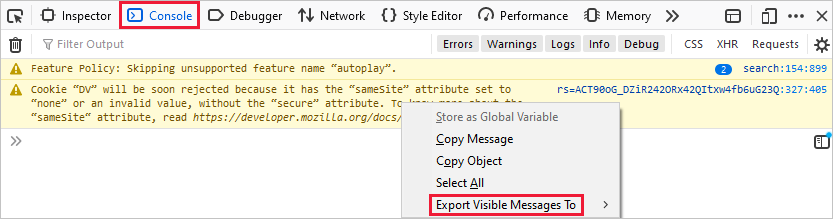
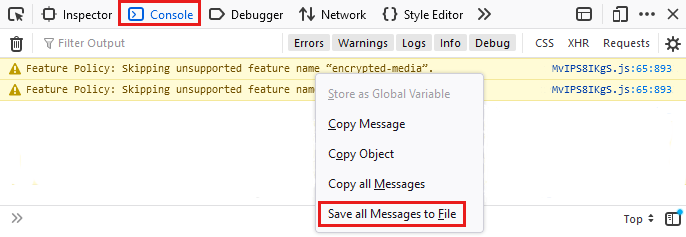
image and alt text updates

diff --git a/articles/azure-portal/capture-browser-trace.md b/articles/azure-portal/capture-browser-trace.md
@@ -38,7 +38,7 @@ Google Chrome and Microsoft Edge are both based on the [Chromium open source pro
 
 1. Select the **Network** tab, then select **Stop recording network log** and **Clear**.
 
-    ![Screenshot of "Stop recording network log" and "Clear"](media/capture-browser-trace/chromium-stop-clear-session.png)
+    ![Screenshot of "Stop recording network log" and "Clear" on the Network tab.](media/capture-browser-trace/chromium-stop-clear-session.png)
 
 1. Select **Record network log**, then reproduce the issue in the portal.
 
@@ -56,7 +56,7 @@ Google Chrome and Microsoft Edge are both based on the [Chromium open source pro
 
 1. Back in the browser developer tools pane, select the **Console** tab. Right-click one of the messages, then select **Save as...**, and save the console output to a text file.
 
-    ![Screenshot that highlights the Console tab and the Save as... menu](media/capture-browser-trace/chromium-console-select.png)
+    ![Screenshot that shows how to save the console output.](media/capture-browser-trace/chromium-console-select.png)
 
 1. You can now share the browser trace HAR file, console output, and screen recording files with Microsoft support by [using the **File upload** option in your support request](supportability/how-to-manage-azure-support-request.md#upload-files).
 
@@ -68,11 +68,9 @@ The following steps show how to use the developer tools in Apple Safari on Mac. 
 
    1. Select **Safari**, then select **Preferences**.
 
-      ![Screenshot of Safari preferences](media/capture-browser-trace/safari-preferences.png)
-
    1. Select the **Advanced** tab, then select **Show Develop menu in menu bar**.
 
-      ![Screenshot of Safari advanced preferences](media/capture-browser-trace/safari-show-develop-menu.png)
+      ![Screenshot of the Safari advanced preferences options.](media/capture-browser-trace/safari-show-develop-menu.png)
 
 1. Sign in to the [Azure portal](https://portal.azure.com). It's important to sign in _before_ you start the trace so that the trace doesn't contain sensitive information related to your account.
 
@@ -82,13 +80,13 @@ The following steps show how to use the developer tools in Apple Safari on Mac. 
 
 1. Select **Develop**, then select **Show Web Inspector**.
 
-    ![Screenshot of "Show Web Inspector"](media/capture-browser-trace/safari-show-web-inspector.png)
+    ![Screenshot of the "Show Web Inspector" command.](media/capture-browser-trace/safari-show-web-inspector.png)
 
 1. By default, the browser keeps trace information only for the page that's currently loaded. Set the following options so the browser keeps all trace information, even if your repro steps require going to more than one page:
 
     1. Select the **Network** tab, then select **Preserve Log**.
 
-          ![Screenshot that shows the Preserve Log option.](media/capture-browser-trace/safari-network-preserve-log.png)
+          ![Screenshot that shows the Preserve Log option on the Network tab.](media/capture-browser-trace/safari-network-preserve-log.png)
 
     1. Select the **Console** tab, then select **Preserve Log**.
 
@@ -96,7 +94,7 @@ The following steps show how to use the developer tools in Apple Safari on Mac. 
 
 1. Select the **Network** tab, then select **Clear Network Items**.
 
-    ![Screenshot of "Clear Network Items"](media/capture-browser-trace/safari-clear-session.png)
+    ![Screenshot of "Clear Network Items" on the Network tab.](media/capture-browser-trace/safari-clear-session.png)
 
 1. Reproduce the issue in the portal. You will see session output similar to the following image.
 
@@ -104,13 +102,13 @@ The following steps show how to use the developer tools in Apple Safari on Mac. 
 
 1. After you have reproduced the unexpected portal behavior, select **Export** and save the file.
 
-    ![Screenshot of "Export"](media/capture-browser-trace/safari-network-export-har.png)
+    ![Screenshot of the "Export" command on the Network tab.](media/capture-browser-trace/safari-network-export-har.png)
 
 1. Stop the screen recorder, and save the recording.
 
 1. Back in the browser developer tools pane, select the **Console** tab, and expand the window. Place your cursor at the start of the console output then drag and select the entire contents of the output. Use Command-C to copy the output and save it to a text file.
 
-    ![Screenshot that highlights you can view and copy the output.](media/capture-browser-trace/safari-console-select.png)
+    ![Screenshot that shows where you can view and copy the console output.](media/capture-browser-trace/safari-console-select.png)
 
 1. You can now share the browser trace HAR file, console output, and screen recording files with Microsoft support by [using the **File upload** option in your support request](supportability/how-to-manage-azure-support-request.md#upload-files).
 
@@ -138,21 +136,21 @@ The following steps show how to use the developer tools in Firefox. For more inf
 
 1. Select the **Network** tab, then select **Clear**.
 
-    ![Screenshot of "Clear"](media/capture-browser-trace/firefox-clear-session.png)
+    ![Screenshot of the "Clear" option on the Network tab.](media/capture-browser-trace/firefox-clear-session.png)
 
 1. Reproduce the issue in the portal. You will see session output similar to the following image.
 
-    ![Screenshot of browser trace results](media/capture-browser-trace/firefox-browser-trace-results.png)
+    ![Screenshot showing example browser trace results.](media/capture-browser-trace/firefox-browser-trace-results.png)
 
 1. After you have reproduced the unexpected portal behavior, select **Save All As HAR**.
 
-    ![Screenshot of "Export HAR"](media/capture-browser-trace/firefox-network-export-har.png)
+    ![Screenshot of the "Save All As HAR" command on the Network tab.](media/capture-browser-trace/firefox-network-export-har.png)
 
 1. Stop Steps Recorder on Windows or the screen recording on Mac, and save the recording.
 
-1. Back in the browser developer tools pane, select the **Console** tab. Right-click one of the messages, then select **Export Visible Messages To**, and save the console output to a text file.
+1. Back in the browser developer tools pane, select the **Console** tab. Right-click one of the messages, then select **Save All Messages to File**, and save the console output to a text file.
 
-    ![Screenshot of console output](media/capture-browser-trace/firefox-console-select.png)
+   :::image type="content" source="media/capture-browser-trace/firefox-console-select.png" alt-text="Screenshot of the Save All Messages to File command on the Console tab.":::
 
 1. You can now share the browser trace HAR file, console output, and screen recording files with Microsoft support by [using the **File upload** option in your support request](supportability/how-to-manage-azure-support-request.md#upload-files).
 
